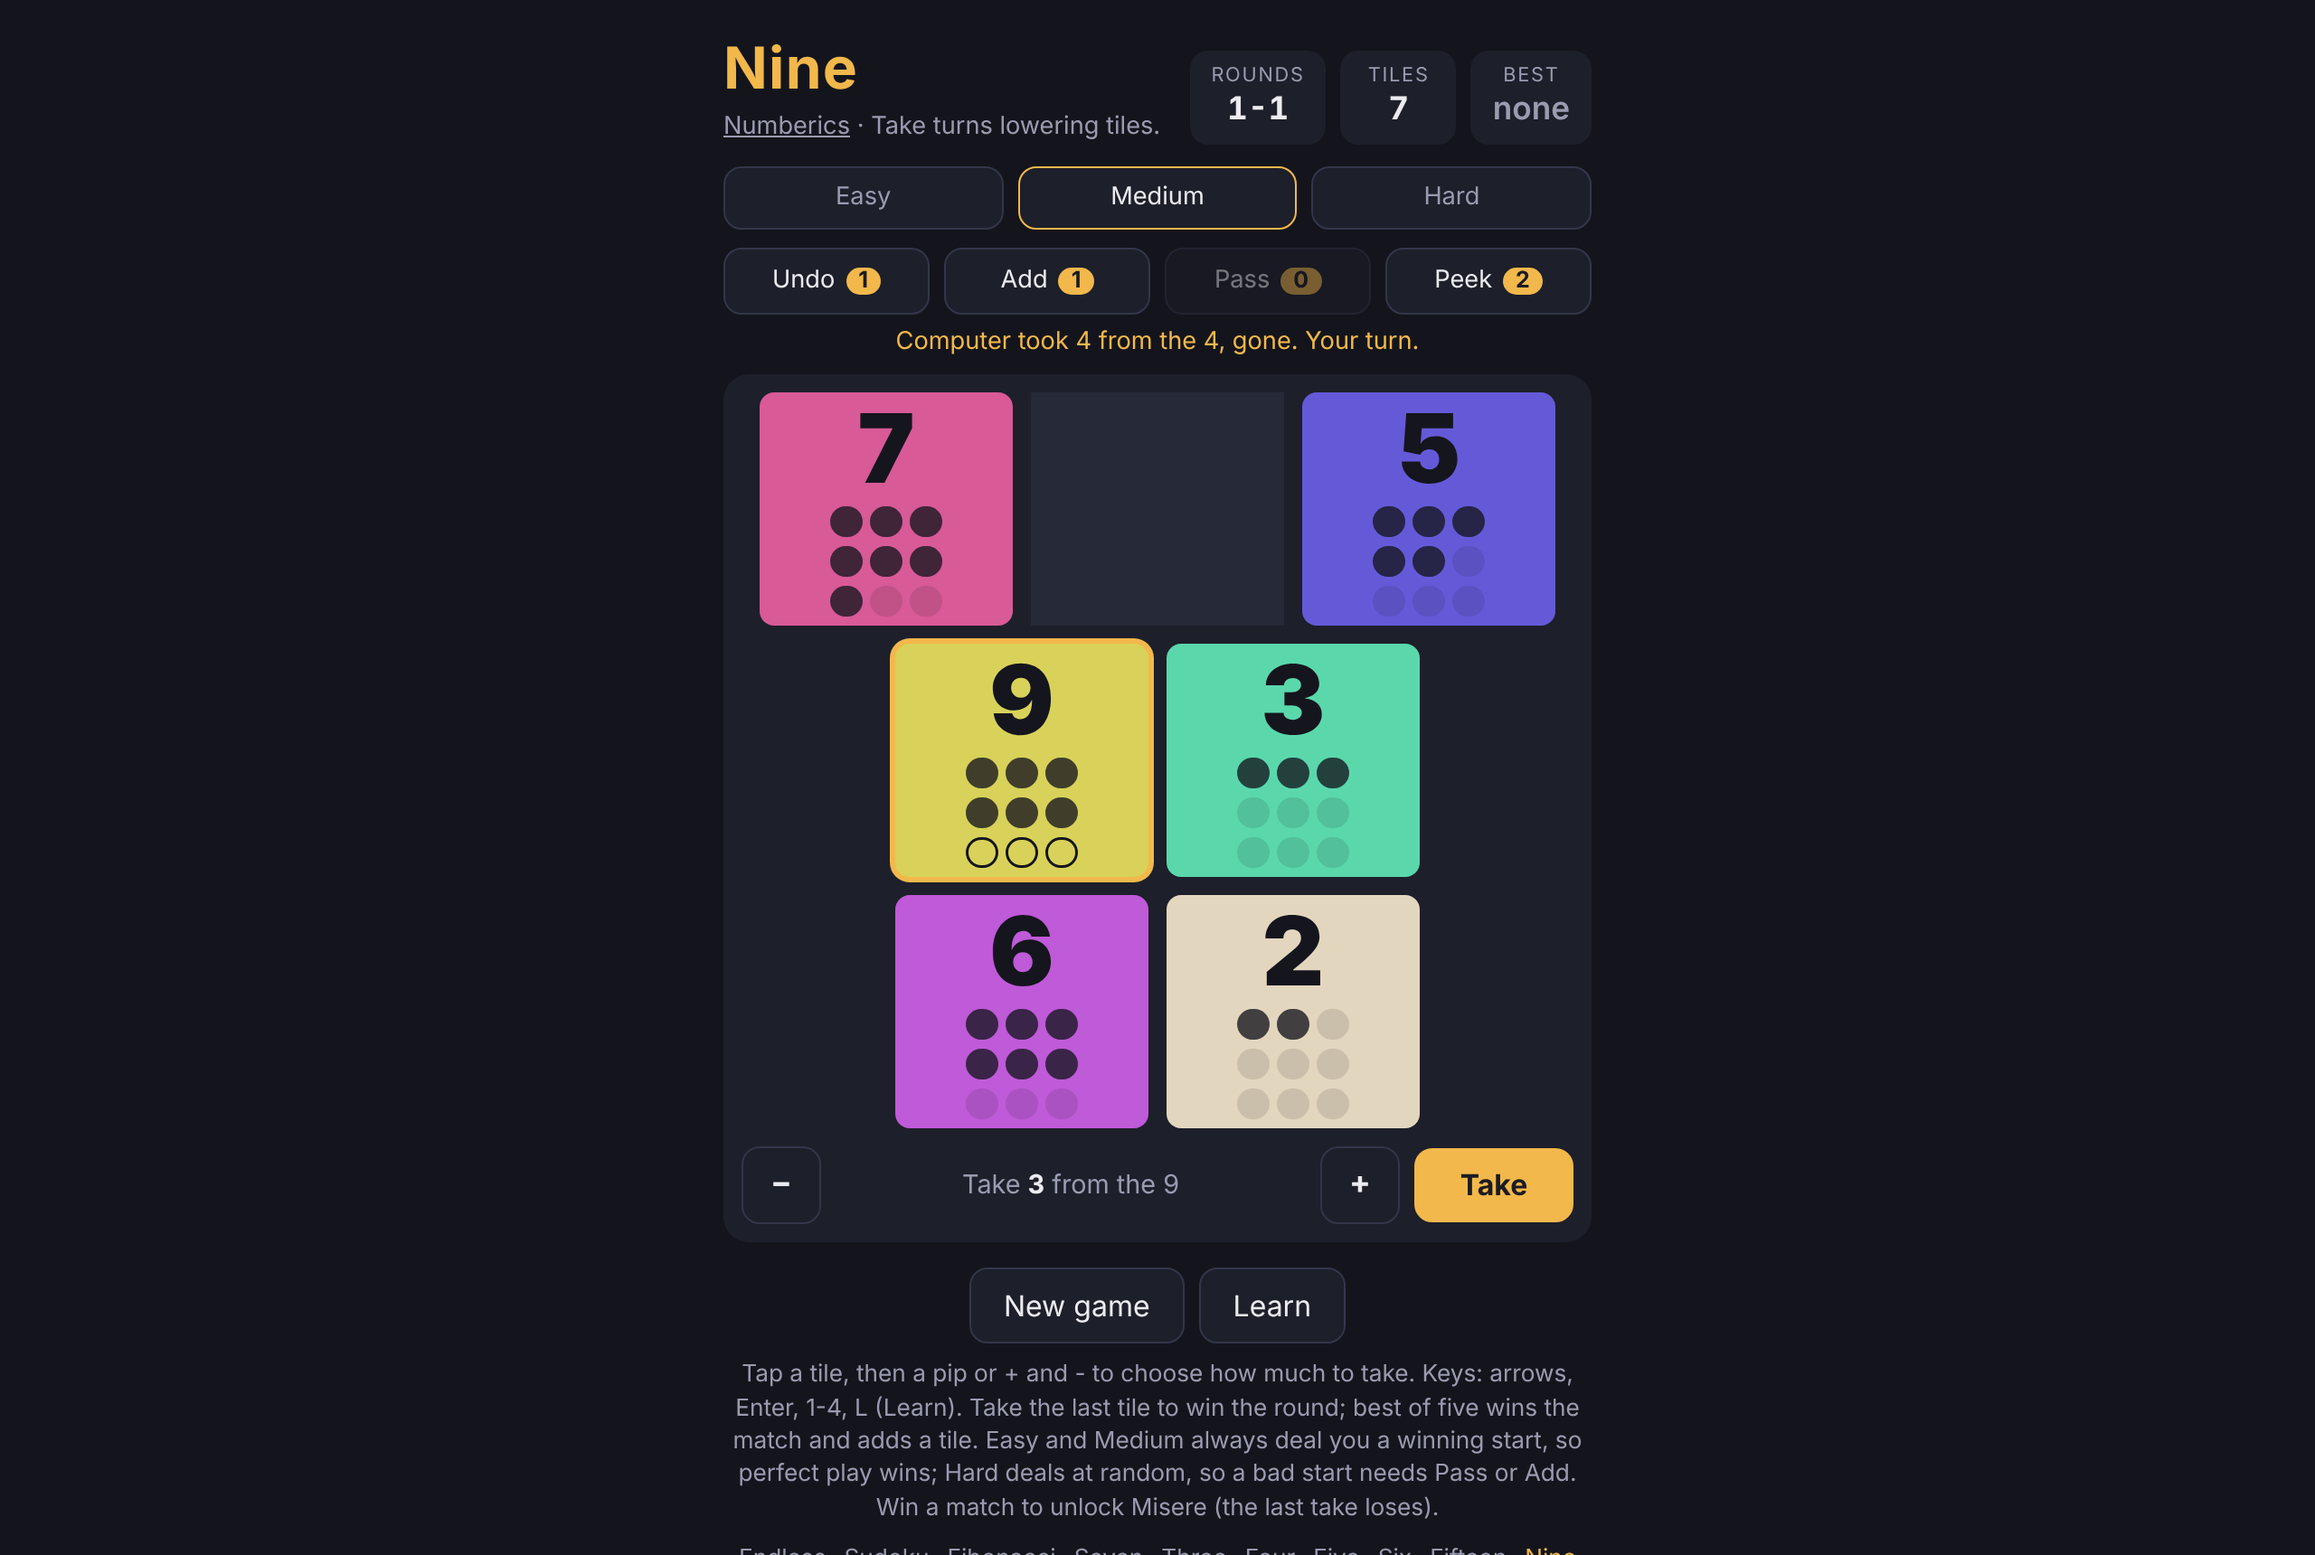
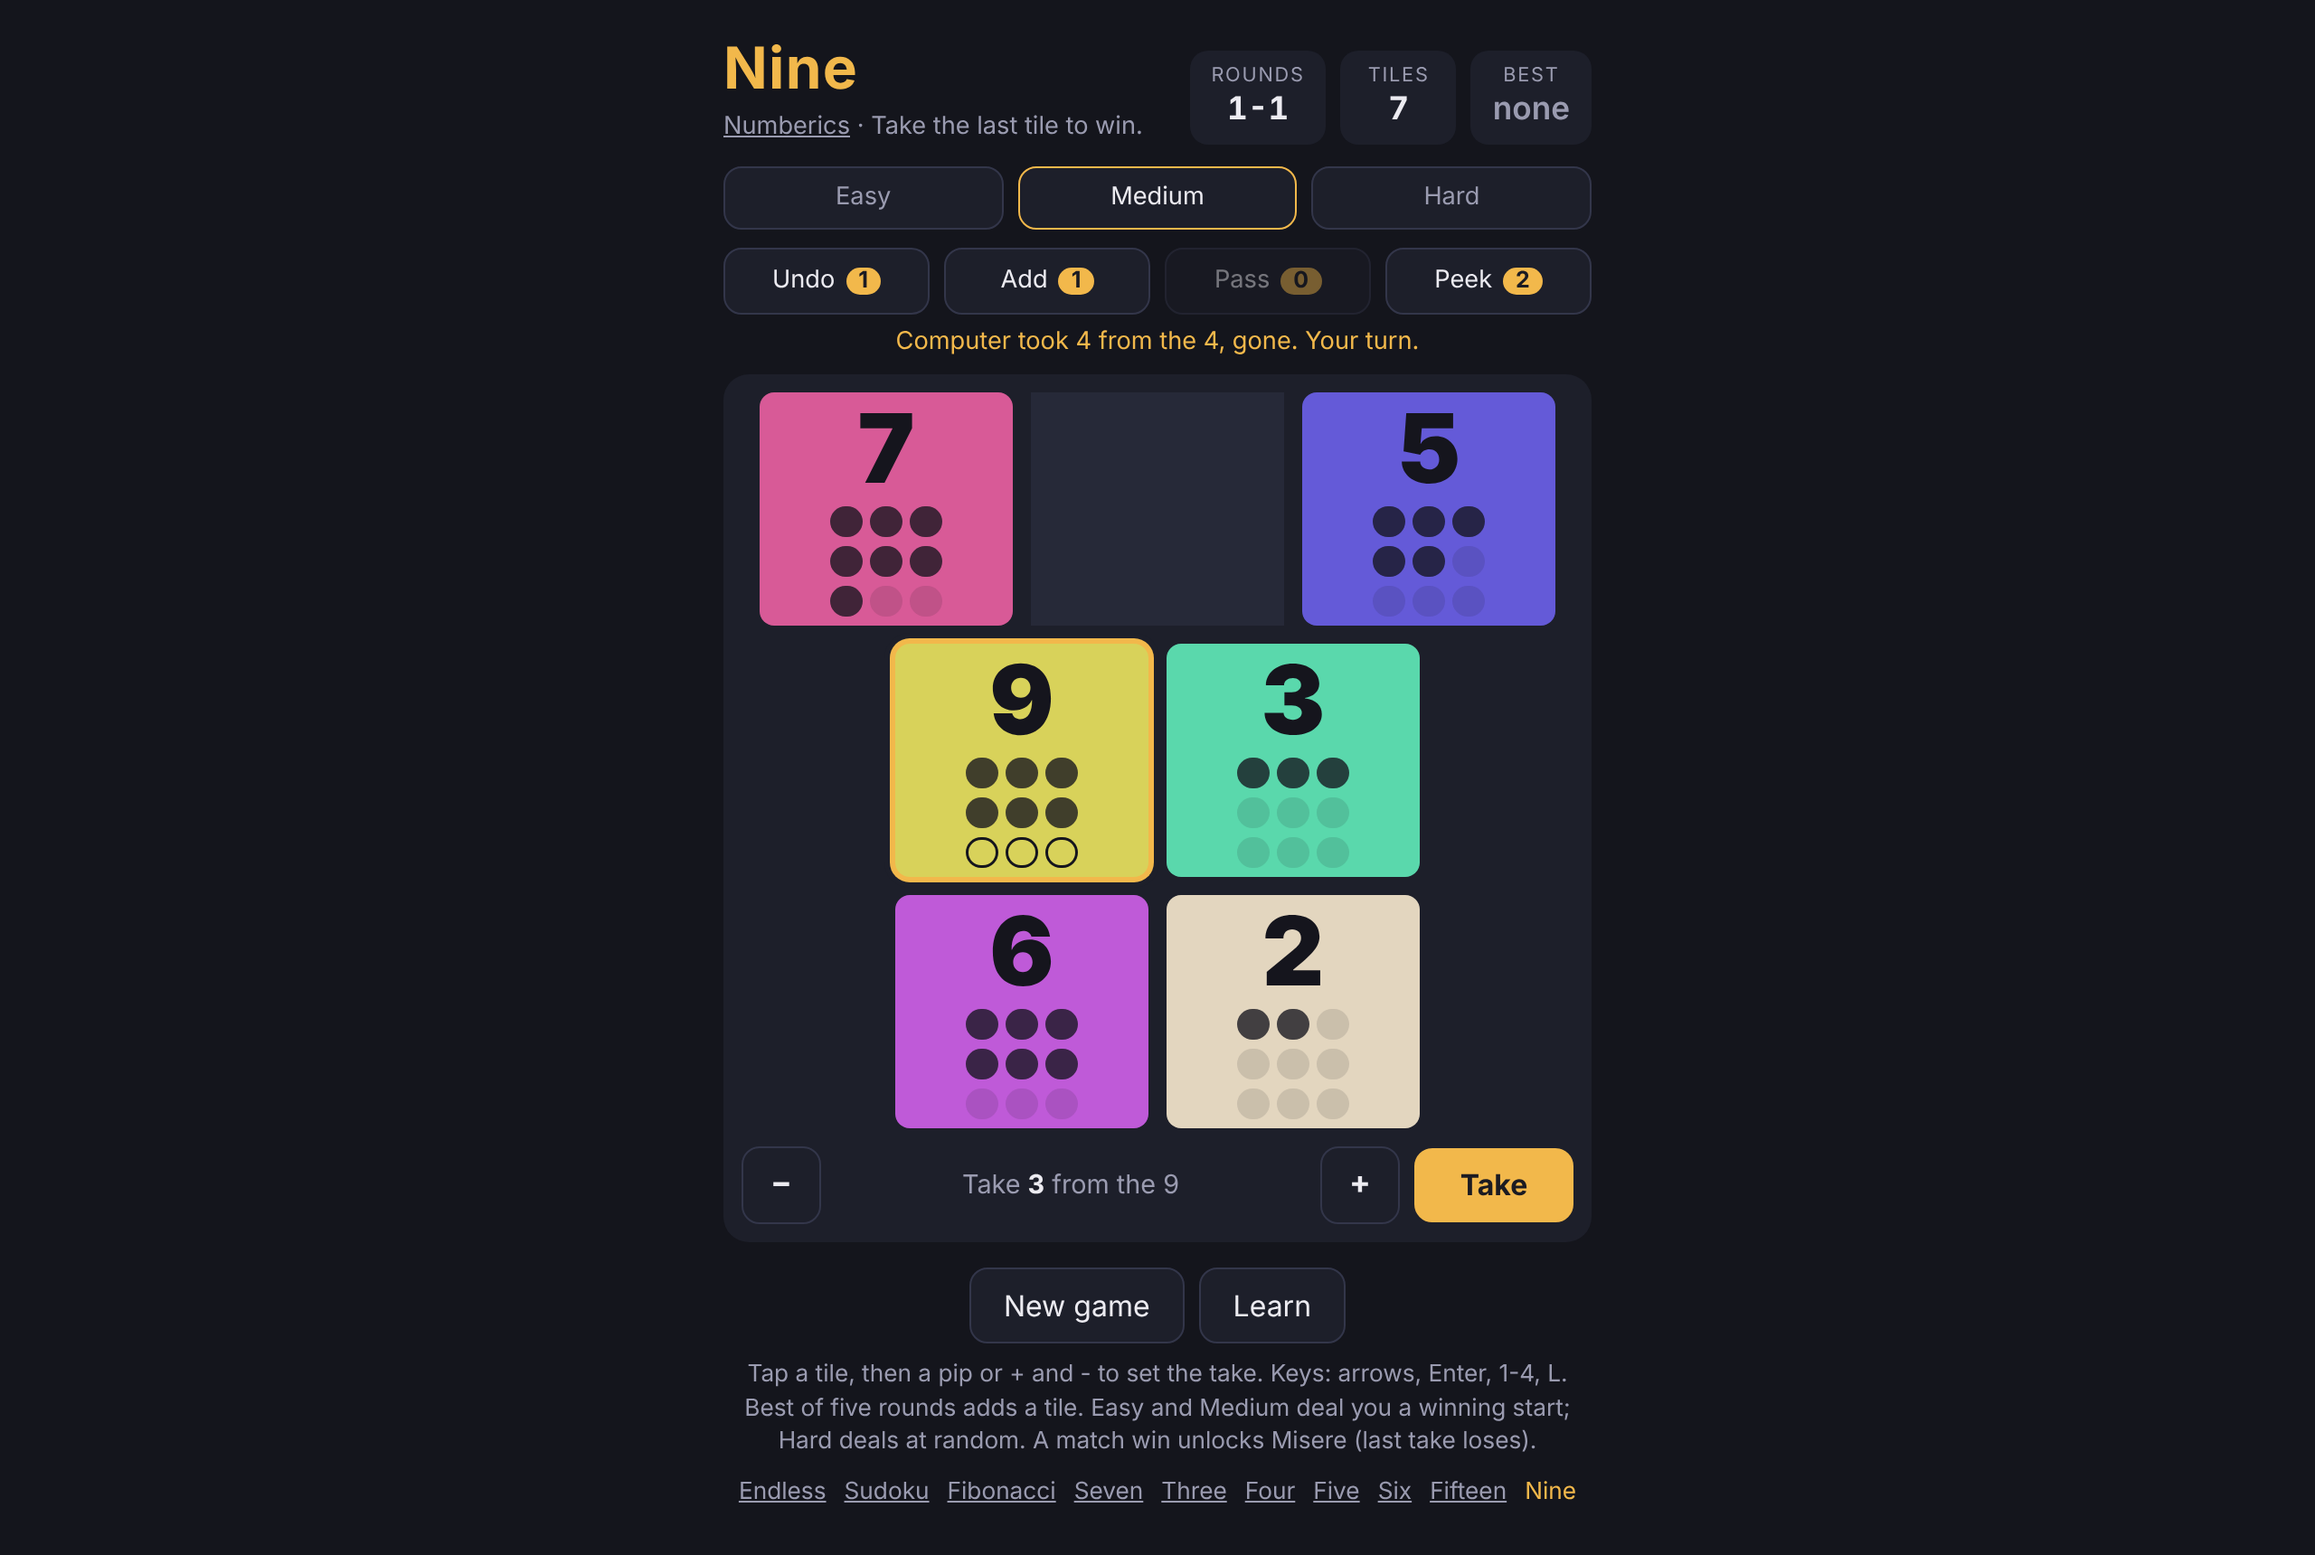
Nine: round 1 fixes; shared toast sits inside the top of the board
Nine: Hard deals a losing start 1 time in 5 and hides the live nim-sum (perfect
play with power-ups wins ~66-73% of Hard matches); Learn states the goal; Undo
never crosses a decided round; distinct focus and selection rings; R5-R11.
Shared: the toast no longer covers the title on phones.

Changed region(s): [[0.3125, 0.8628, 0.6875, 0.986], [0.4062, 0.0616, 0.5, 0.0924]]

diff --git a/shared/kit.js b/shared/kit.js
@@ -44,7 +44,12 @@
   function toast(msg, kind, el) {
     if (kind && typeof kind === "object") { el = kind; kind = null; }
     el = el || document.getElementById("toast"); if (!el) return;
-    el.textContent = msg; el.classList.toggle("bad", kind === "bad"); el.classList.toggle("info", kind === "info"); el.classList.add("on");
+    el.textContent = msg; el.classList.toggle("bad", kind === "bad"); el.classList.toggle("info", kind === "info");
+    // sit just inside the top of the board: never over the title, the controls or the games row
+    try {
+      var b = document.querySelector("#board, .board"), r = b && b.getBoundingClientRect();
+      if (r && r.height) el.style.top = Math.max(12, Math.min(window.innerHeight - 60, r.top + 10)) + "px";
+    } catch (e) { /* keep the CSS position */ } el.classList.add("on");
     clearTimeout(toastT); toastT = setTimeout(function () { el.classList.remove("on"); }, 2200);
   }
   // Two-step destructive button ("New game" -> "Sure? ..."), no blocking confirm() dialog.
